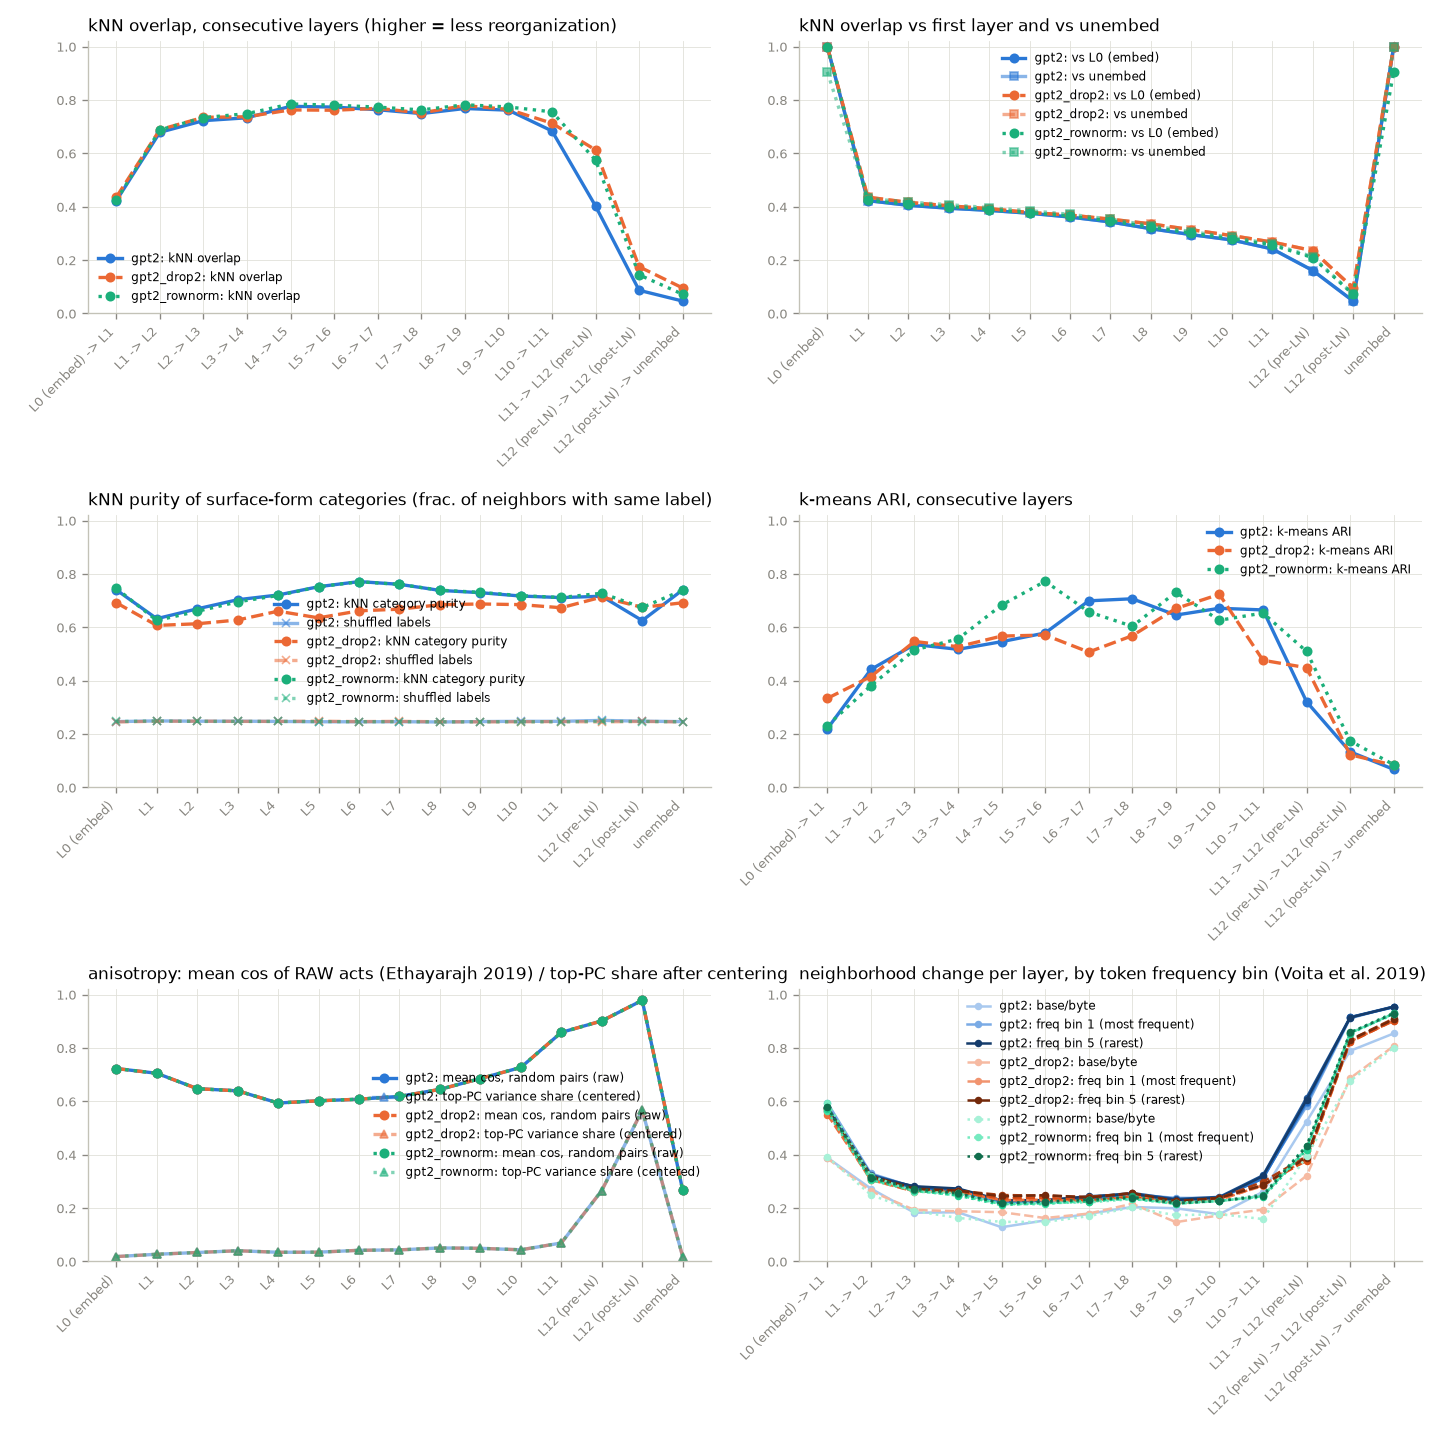
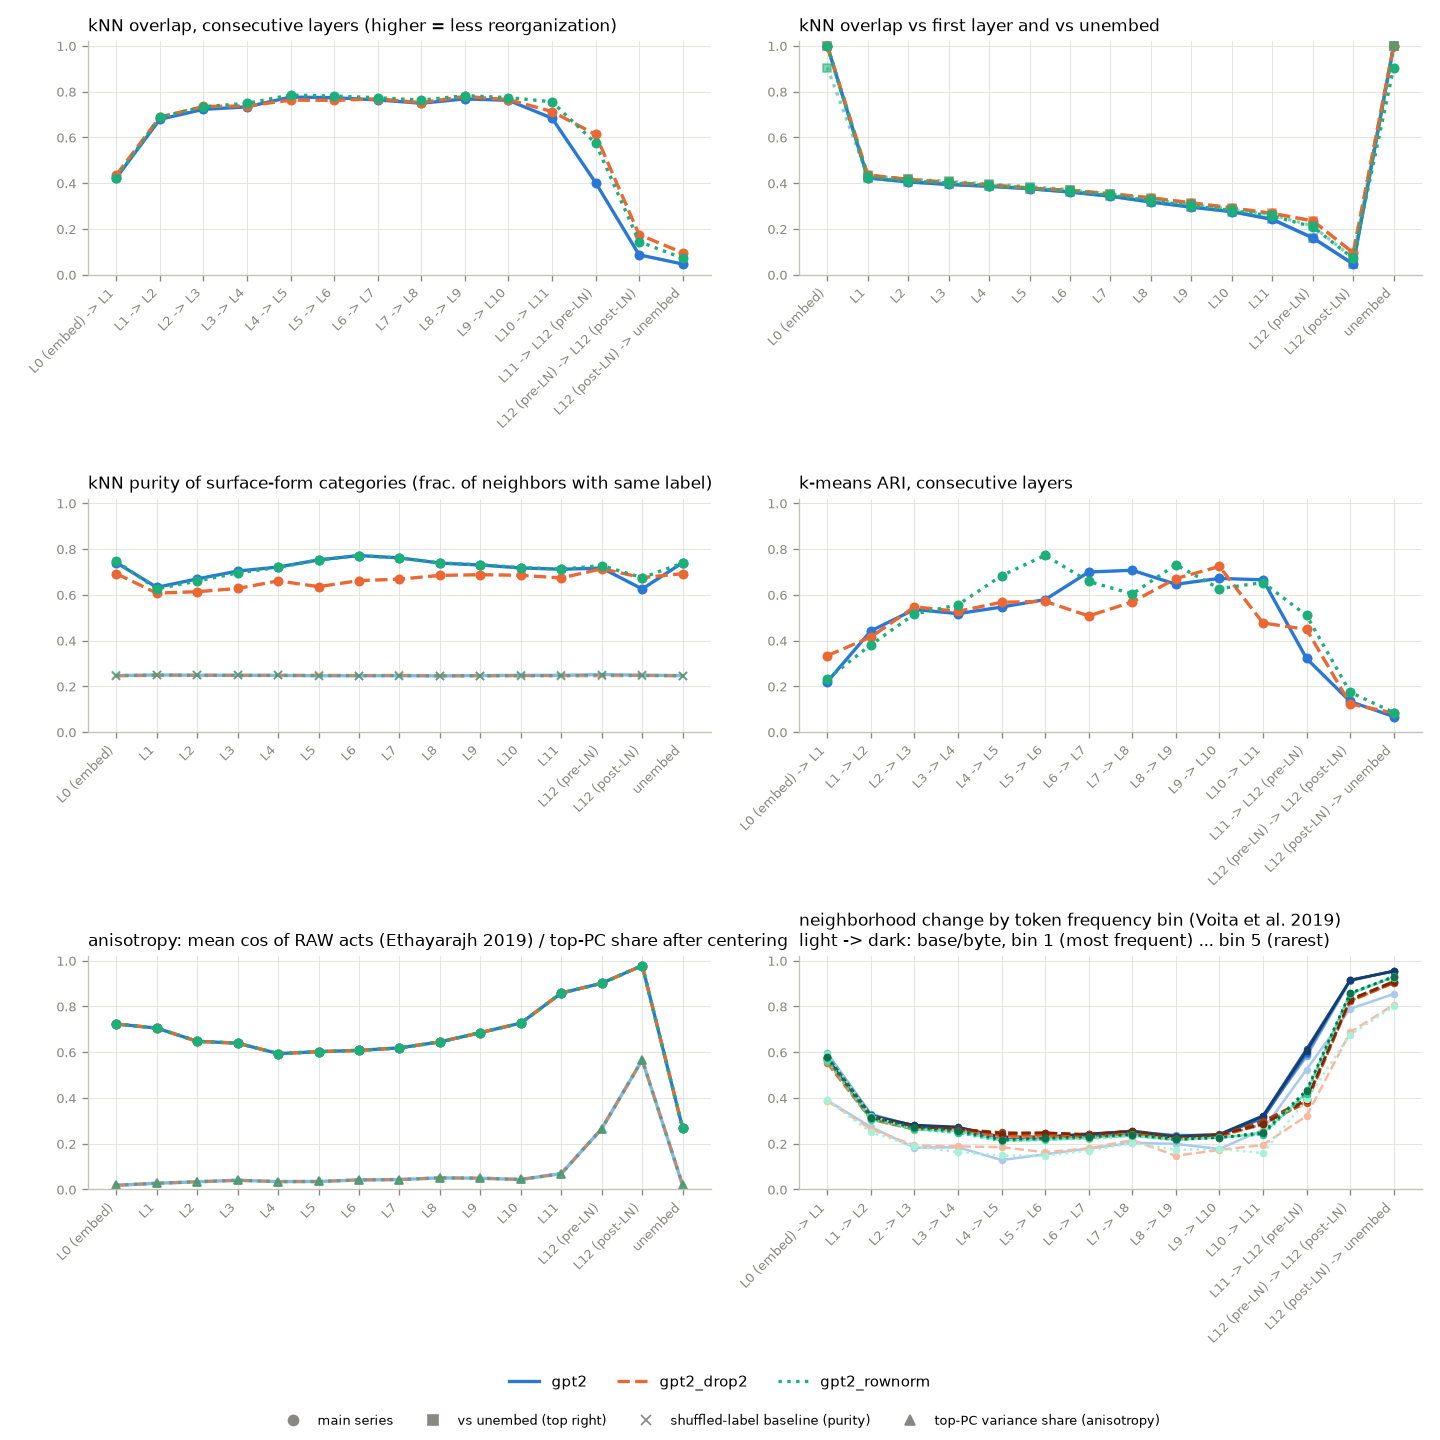
viz: one figure-level legend below the grid; Q2 ring check: drop2 fills GPT-2's L12 ring
Per-panel loc='best' legends sat on data lines. Now: runs row + marker-shape key row
under the grid; freq-panel shading explained in its title.

diff --git a/src/token_drift/viz.py b/src/token_drift/viz.py
@@ -16,6 +16,7 @@ matplotlib.use("Agg")  # headless; we only ever write files
 import matplotlib.pyplot as plt  # noqa: E402
 import numpy as np  # noqa: E402
 from matplotlib.colors import to_rgb  # noqa: E402
+from matplotlib.lines import Line2D  # noqa: E402
 
 from token_drift.labels import CATEGORIES  # noqa: E402
 
@@ -243,14 +244,26 @@ def plot_metrics(runs: dict[str, dict], out_path: str | Path, *, return_fig: boo
     ax_sil.set_title("kNN purity of surface-form categories (frac. of neighbors with same label)", loc="left", fontsize=10)
     ax_ari.set_title("k-means ARI, consecutive layers", loc="left", fontsize=10)
     ax_aniso.set_title("anisotropy: mean cos of RAW acts (Ethayarajh 2019) / top-PC share after centering", loc="left", fontsize=10)
-    ax_freq.set_title("neighborhood change per layer, by token frequency bin (Voita et al. 2019)", loc="left", fontsize=10)
+    ax_freq.set_title("neighborhood change by token frequency bin (Voita et al. 2019)\n"
+                      "light -> dark: base/byte, bin 1 (most frequent) ... bin 5 (rarest)", loc="left", fontsize=10)
     for ax in axes.flat:
         _style_axes(ax)
-        if ax.get_legend_handles_labels()[0]:  # an empty panel (old metrics.json) gets no legend
-            ax.legend(frameon=False, fontsize=7)
-    for ax in axes.flat:
         ax.set_ylim(0, 1.02)
-    fig.tight_layout()
+    # One legend for the whole figure, under the grid. Per-panel loc="best" kept landing
+    # on data lines. Row 1: which run (colour + dash). Row 2: what the marker shape means,
+    # in neutral grey because it's the same for every run.
+    run_handles = [
+        Line2D([], [], color=RUN_COLORS[r % len(RUN_COLORS)], linestyle=styles[r % len(styles)], linewidth=2)
+        for r in range(len(runs))
+    ]
+    fig.legend(run_handles, list(runs), loc="lower center", bbox_to_anchor=(0.5, 0.025),
+               ncol=len(runs), frameon=False, fontsize=9)
+    shape_key = [("o", "main series"), ("s", "vs unembed (top right)"),
+                 ("x", "shuffled-label baseline (purity)"), ("^", "top-PC variance share (anisotropy)")]
+    shape_handles = [Line2D([], [], color=_MUTED, marker=mk, linestyle="none", markersize=6) for mk, _ in shape_key]
+    fig.legend(shape_handles, [t for _, t in shape_key], loc="lower center", bbox_to_anchor=(0.5, 0.0),
+               ncol=len(shape_key), frameon=False, fontsize=8)
+    fig.tight_layout(rect=(0, 0.05, 1, 1))  # leave the bottom strip for the legends
     out_path = Path(out_path)
     fig.savefig(out_path, dpi=120)
     if return_fig:

diff --git a/tests/test_viz.py b/tests/test_viz.py
@@ -153,3 +153,16 @@ def test_tick_labels_tilt_once_the_pre_ln_frame_makes_them_crowded(tmp_path, rng
     # tilted transition labels go on one line, or neighbours overlap
     assert all("\n" not in t.get_text() for t in fig.axes[0].get_xticklabels())
     plt.close(fig)
+
+
+def test_one_figure_legend_below_the_grid_and_none_on_the_panels(tmp_path, rng):
+    # loc="best" per panel landed on top of data lines; one shared legend can't
+    import matplotlib.pyplot as plt
+
+    runs = {"a": _fake_metrics(rng), "b": _fake_metrics(rng)}
+    fig = plot_metrics(runs, tmp_path / "leg.png", return_fig=True)
+    assert all(ax.get_legend() is None for ax in fig.axes)
+    texts = [t.get_text() for leg in fig.legends for t in leg.get_texts()]
+    assert "a" in texts and "b" in texts  # runs named once, not once per panel
+    assert any("shuffled" in t for t in texts) and any("top-PC" in t for t in texts)
+    plt.close(fig)

diff --git a/docs/FINDINGS.md b/docs/FINDINGS.md
@@ -266,6 +266,12 @@ Costs, which is why neither becomes the default:
   cancels, and it drops to 0.905. Anywhere a layer is "the previous one plus a
   constant", rownorm will report change that isn't there.
 
+Flipbook check (`gpt2_drop2`, docs/results/gpt2_drop2_L12.png): **the hollow ring at
+L12 post-LN fills in**, as predicted in OPEN_QUESTIONS. With the two top PCs gone it's a
+solid cloud with surface-form regions (space_lower on one side, space_cap on the other,
+digits and punctuation as islands). So the ring was one or two huge shared directions
+putting every token on a shell, and the token-level structure was underneath it.
+
 Takeaway: keep center-then-unit-norm as the default, and check any surprising frame
 against rownorm. If the surprise survives both, it's the model.
 

diff --git a/README.md b/README.md
@@ -174,3 +174,6 @@ so that one was our pipeline, not the model. Each variant has a cost, though: dr
 PCs takes surface-form signal out of GPT-2's middle layers, and normalizing rows first
 breaks the exact removal of a shared offset. Numbers in FINDINGS section 9.
 
+Dropping the top two PCs also fills in GPT-2's hollow L12 ring: underneath it there's an
+ordinary surface-form map ([`docs/results/gpt2_drop2_L12.png`](docs/results/gpt2_drop2_L12.png)).
+
